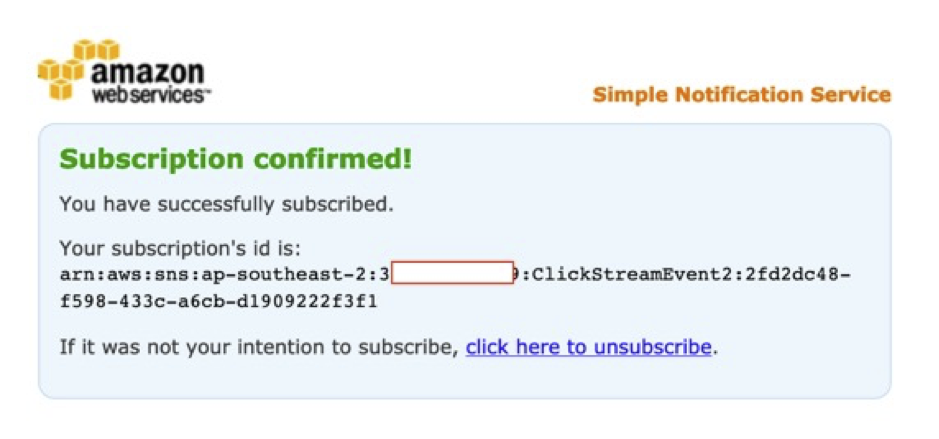
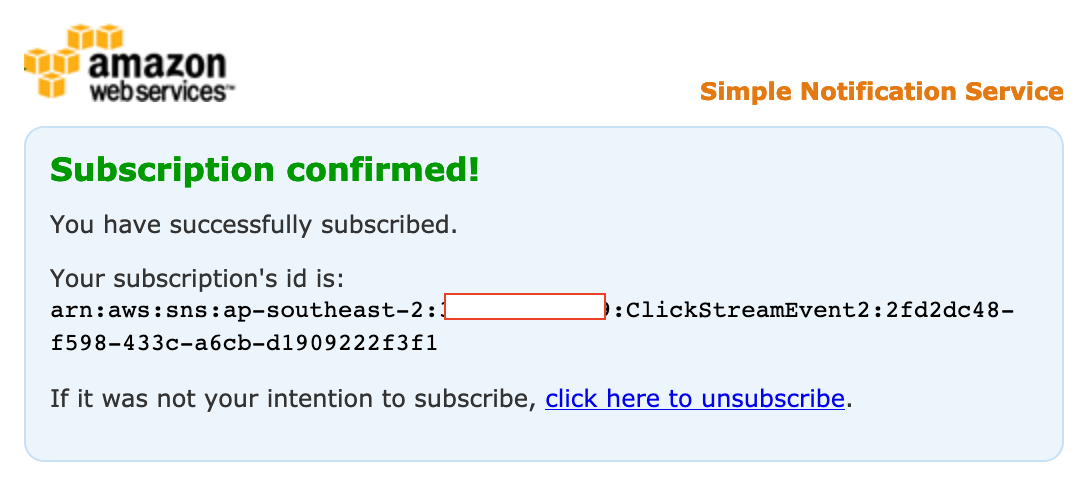
Updated draft

diff --git a/README.md b/README.md
@@ -3,6 +3,15 @@ This lab is provided as part of [AWS Innovate Data Edition](https://aws.amazon.c
 
 ℹ You will run this lab in your own AWS account and running this lab will incur some costs. Please follow directions at the end of the lab to remove resources to avoid future costs.
 
+## Table of Contents  
+[Overview](#overview)  
+[Architecture](#architecture) 
+[Pre-Requisites](#pre-Requisites)
+[Setup an Amazon Kinesis Data Generator](#setup-an-amazon-kinesis-data-generator)
+[Login to KDG](#login-to-kdg)
+
+
+
 ## Overview
 This lab helps you to use Kinesis Data Analytics to perform Real-Time Clickstream Anomaly Detection. Amazon Kinesis Data Analytics is a managed service that makes it easy to analyse web log traffic that drive business decisions in real-time.
 
@@ -45,7 +54,7 @@ Note:
 * While the stack runs, watch out for an email as below.
 ![EmailSubscription](./images/EmailSubscription.png)
 * Confirm the subscription to receive the below message.
-![EmailSubscriptionConfirmation](./images/EmailSubscription.png)
+![EmailSubscriptionConfirmation](./images/EmailSubscriptionConfirmation.png)
 * Once the stack is deployed, click the outputs tab to view more information.
     * **KinesisDataGeneratorUrl** - This value is the Kinesis Data Generator (KDG) URL.
     * **RawBucketName** - Store raw data coming from KDG.
@@ -65,6 +74,13 @@ The KDG simplifies the task of generating data and sending it to Amazon Kinesis.
 1. Click on the KinesisDataGeneratorUrl on the Outputs tab on the stack.
 2. Sign in using the username and password you enetered in the CloudFormation console.
 ![KDGLogin](./images/KDGLogin.png)
-
+3. After you sign in, you should see the KDG console. You need to set up some templates to mimic the clickstream web payload.
+4. Create the following templates. But do not click on the 'Send Data' yet:
+   |**Template Name**|**Payload**|
+   | --- | --- |
+   |```Schema Discovery Payload``` | ```  {"browseraction":"DiscoveryKinesisTest", "site": "yourwebsiteurl.domain.com"}``` |
+   |```Click Payload``` | ```  {"browseraction":"Click", "site": "yourwebsiteurl.domain.com"} ``` |
+   |```Impression Payload``` | ```  {"browseraction":"Impression", "site": "yourwebsiteurl.domain.com"}``` |
+ 
 ## Setup an Analytics Pipeline Application
-1. 
+1.  
